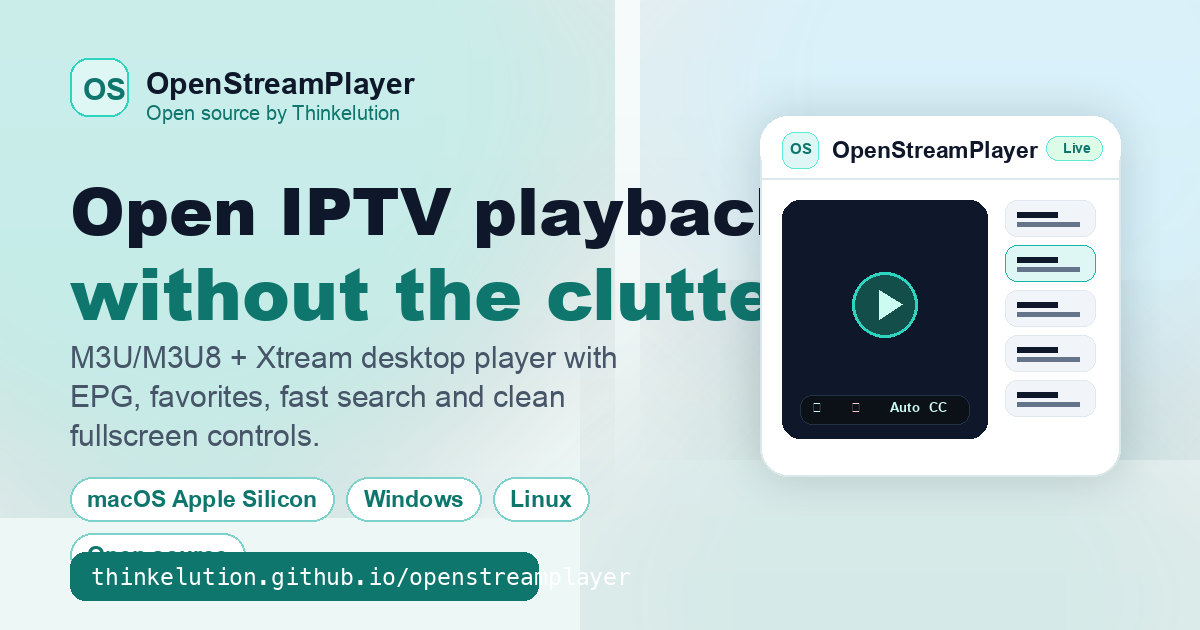
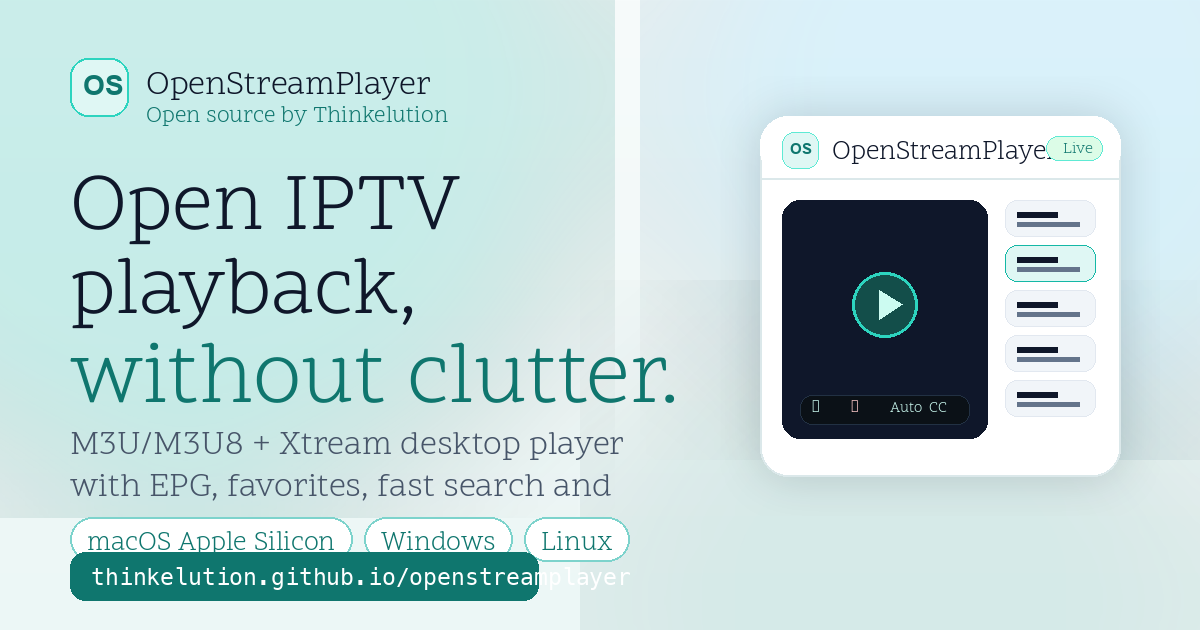
Switch landing page to Scope One

diff --git a/index.html b/index.html
@@ -20,10 +20,10 @@
   <meta name="theme-color" content="#0f766e">
   <link rel="preconnect" href="https://fonts.googleapis.com">
   <link rel="preconnect" href="https://fonts.gstatic.com" crossorigin>
-  <link href="https://fonts.googleapis.com/css2?family=Cantarell:wght@400;700&family=JetBrains+Mono:wght@500;700&display=swap" rel="stylesheet">
+  <link href="https://fonts.googleapis.com/css2?family=Scope+One&family=JetBrains+Mono:wght@500;700&display=swap" rel="stylesheet">
   <style>
     :root{color-scheme:light;--bg:#f7fbfb;--panel:#ffffff;--card:#ffffff;--line:#dbe8ea;--text:#0f172a;--muted:#64748b;--accent:#0f766e;--accent2:#0284c7;--shadow:0 24px 70px rgba(15,23,42,.12)}
-    *{box-sizing:border-box} body{margin:0;font-family:Cantarell,-apple-system,BlinkMacSystemFont,"Segoe UI",sans-serif;background:radial-gradient(circle at 20% 0%,rgba(20,184,166,.18),transparent 34rem),radial-gradient(circle at 90% 10%,rgba(56,189,248,.14),transparent 30rem),linear-gradient(135deg,#f7fbfb,#eef7f6 55%,#ffffff);color:var(--text);line-height:1.6} a{color:inherit}.container{max-width:1120px;margin:0 auto;padding:0 1.2rem}
+    *{box-sizing:border-box} body{margin:0;font-family:'Scope One',Georgia,serif;background:radial-gradient(circle at 20% 0%,rgba(20,184,166,.18),transparent 34rem),radial-gradient(circle at 90% 10%,rgba(56,189,248,.14),transparent 30rem),linear-gradient(135deg,#f7fbfb,#eef7f6 55%,#ffffff);color:var(--text);line-height:1.6} a{color:inherit}.container{max-width:1120px;margin:0 auto;padding:0 1.2rem}
     header{position:sticky;top:0;z-index:10;background:rgba(255,255,255,.82);border-bottom:1px solid rgba(15,23,42,.08);backdrop-filter:blur(18px)}nav{display:flex;align-items:center;justify-content:space-between;gap:1rem;min-height:4.4rem}.brand{display:flex;align-items:center;gap:.75rem;text-decoration:none;font-weight:800;letter-spacing:-.03em}.mark{display:grid;place-items:center;width:2.45rem;height:2.45rem;border:1px solid rgba(20,184,166,.5);border-radius:.8rem;background:linear-gradient(145deg,rgba(20,184,166,.25),rgba(56,189,248,.12));color:#0f766e}.navlinks{display:flex;gap:.65rem;align-items:center}.navlinks a{font-size:.9rem;color:var(--muted);text-decoration:none;font-weight:700}.navlinks a:hover{color:var(--text)}
     .hero{padding:6rem 0 4rem}.hero-grid{display:grid;grid-template-columns:minmax(0,.92fr) minmax(340px,1.08fr);gap:4rem;align-items:center}.eyebrow{display:inline-flex;gap:.45rem;align-items:center;margin-bottom:1.1rem;color:#0f766e;font-size:.78rem;text-transform:uppercase;letter-spacing:.12em;font-weight:800}.eyebrow span{width:.5rem;height:.5rem;background:var(--accent);border-radius:50%;box-shadow:0 0 0 6px rgba(20,184,166,.12)}h1{margin:0 0 1rem;font-size:clamp(2.45rem,5.1vw,4.65rem);line-height:1.02;letter-spacing:-.06em;max-width:10ch}h1 strong{color:#0f766e}.lead{max-width:56ch;color:#475569;font-size:1.08rem}.actions{display:flex;gap:.8rem;flex-wrap:wrap;margin-top:1.6rem}.btn{display:inline-flex;align-items:center;gap:.55rem;padding:.82rem 1.05rem;border-radius:.78rem;text-decoration:none;font-weight:800;border:1px solid rgba(15,23,42,.12)}.primary{background:var(--accent);color:#fff;border-color:transparent}.secondary{background:rgba(15,23,42,.04);color:#0f172a}.install{margin-top:1rem;display:inline-block;padding:.75rem 1rem;border:1px solid rgba(20,184,166,.28);border-radius:.75rem;background:#ecfdf5;font-family:"JetBrains Mono",monospace;font-size:.9rem;color:#0f766e;white-space:nowrap;max-width:100%;overflow:auto}
     .mock{border:1px solid rgba(15,23,42,.1);border-radius:1.4rem;background:rgba(255,255,255,.92);box-shadow:var(--shadow);overflow:hidden}.mock-top{display:flex;align-items:center;justify-content:space-between;padding:.85rem 1rem;border-bottom:1px solid rgba(15,23,42,.08)}.mock-title{display:flex;align-items:center;gap:.65rem;font-weight:800}.pill{border:1px solid rgba(20,184,166,.5);background:rgba(20,184,166,.12);color:#0f766e;border-radius:2rem;padding:.28rem .6rem;font-size:.75rem;font-weight:800}.mock-body{display:grid;grid-template-columns:1fr 13rem;min-height:22rem}.screen{position:relative;background:#0f172a;display:grid;place-items:center}.play{width:4.4rem;height:4.4rem;border-radius:50%;display:grid;place-items:center;background:rgba(20,184,166,.18);border:1px solid rgba(20,184,166,.45);color:#0f766e;font-size:1.8rem}.controls{position:absolute;left:1rem;right:1rem;bottom:1rem;display:flex;gap:.5rem}.control{height:2rem;border-radius:.55rem;background:rgba(15,23,42,.06);border:1px solid rgba(15,23,42,.12);padding:.35rem .65rem;color:#0f766e;font-size:.78rem;font-weight:800}.stop{color:#b91c1c;border-color:rgba(239,68,68,.45)}.channels{border-left:1px solid rgba(15,23,42,.08);padding:.8rem;background:#f8fafc}.search{height:2.2rem;border-radius:.6rem;background:rgba(15,23,42,.06);margin-bottom:.8rem}.item{display:flex;gap:.55rem;align-items:center;padding:.65rem;border-radius:.7rem;margin-bottom:.55rem;background:rgba(15,23,42,.04)}.item.active{outline:1px solid var(--accent);background:rgba(20,184,166,.12)}.logo{width:2rem;height:2rem;border-radius:.55rem;background:#e2f5f2;display:grid;place-items:center;font-size:.66rem;font-weight:800}.lines{flex:1}.line{height:.55rem;border-radius:1rem;background:#d7e8eb;margin:.22rem 0}.line.short{width:64%;background:#718b93}
